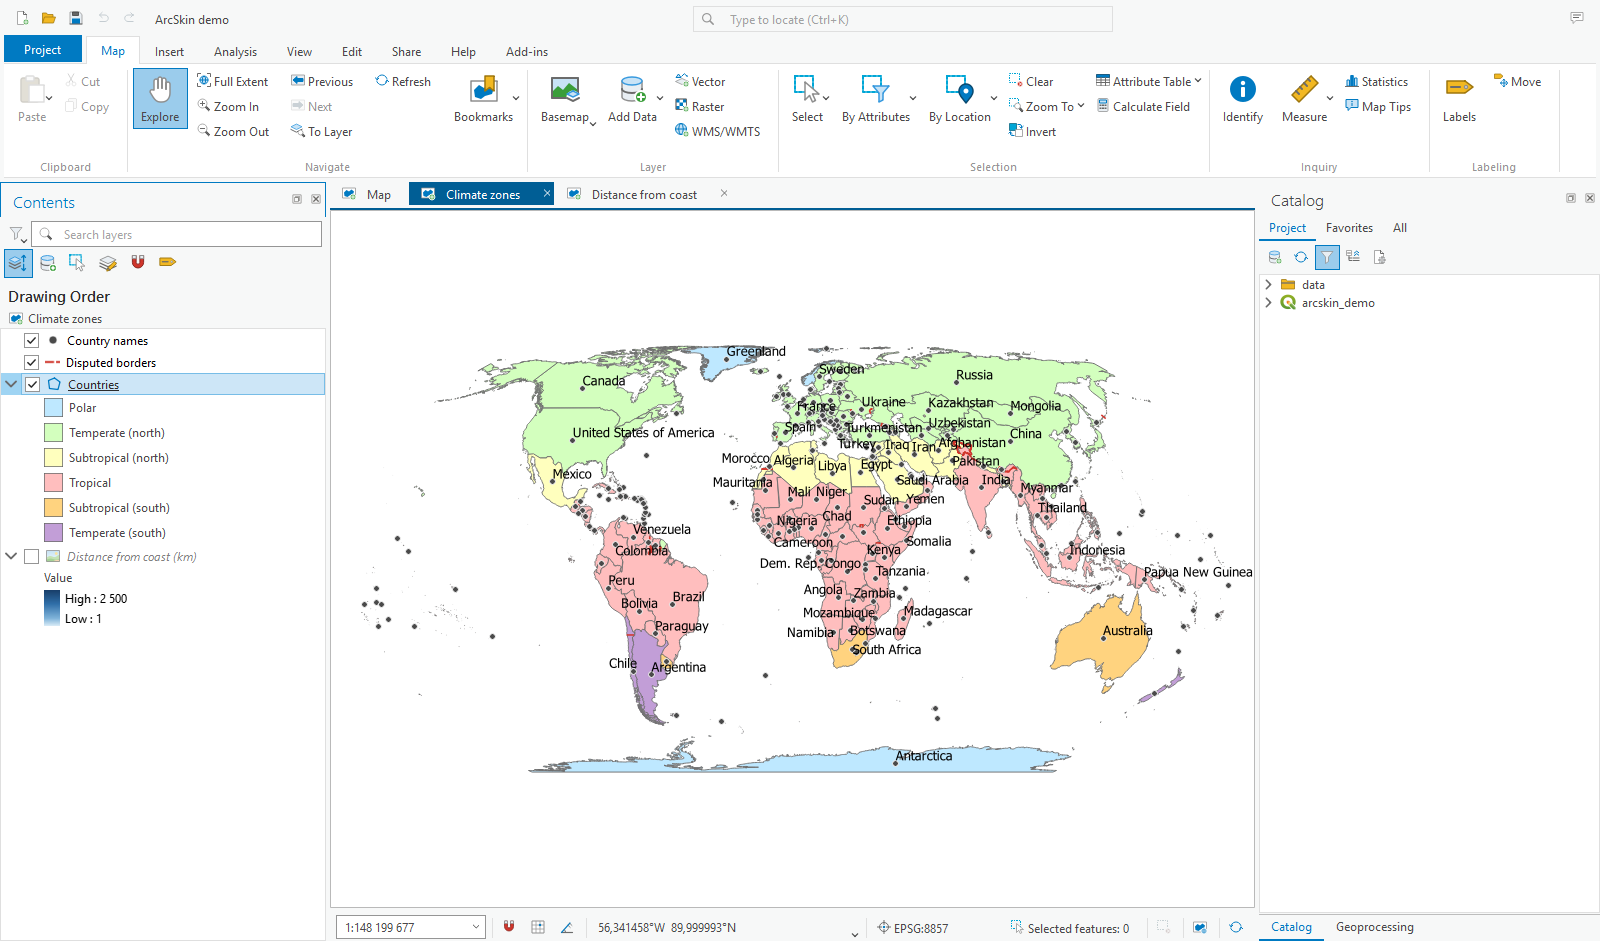
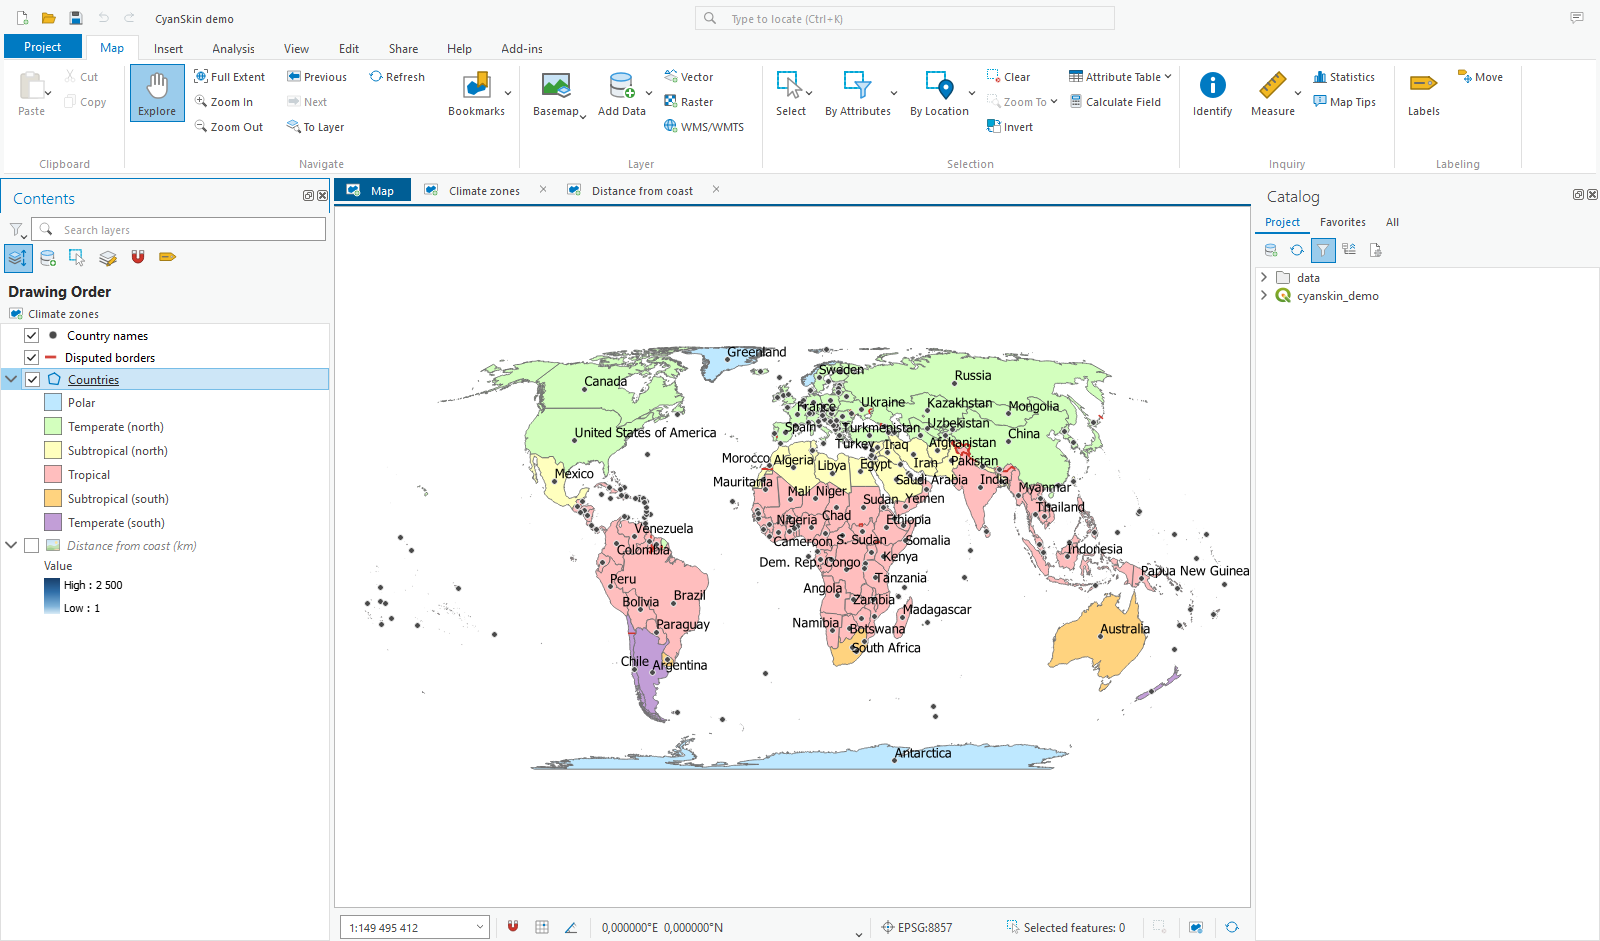
README screenshots of CyanSkin
New screenshots of the demo project for the overview, Geoprocessing,
selection, view tabs, Symbology and Edit tab. The smoke test expects
the bundled colour ramps and the pastel palette in the QGIS style.

diff --git a/tests/smoke_in_qgis.py b/tests/smoke_in_qgis.py
@@ -17,6 +17,7 @@ from qgis.PyQt.QtWidgets import (
     QApplication, QTabBar, QToolBar, QToolButton, QWidget,
 )
 
+from cyanskin import symbology
 from cyanskin.ribbon import ADDIN_HOSTS
 
 # QGIS toolbars and tools the ribbon does not offer (yet).
@@ -139,7 +140,8 @@ def smoke_test(iface):
            "footer under the map")
     expect(not win.statusBar().isVisible(), "status bar hidden")
     expect(skinned(), "CyanSkin style sheet applied")
-    expect(len(ramps()) >= 100, "CyanSkin colour ramps in the style")
+    expect(len(ramps()) > len(list(symbology.bundled_ramps())),
+           "CyanSkin colour ramps and palette in the style")
     expect(QgsSettings().value("UI/UITheme") == "CyanSkin", "UI theme set")
     missing = missing_from_ribbon(win)
     expect(not missing, f"QGIS tools the ribbon lacks: {missing}")
